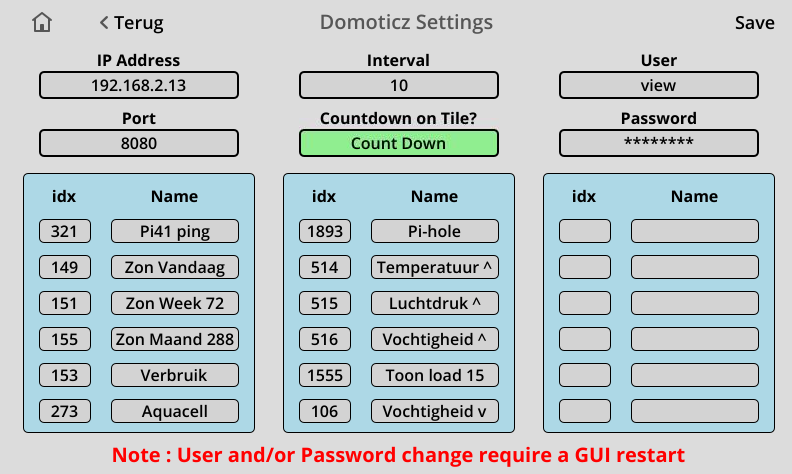
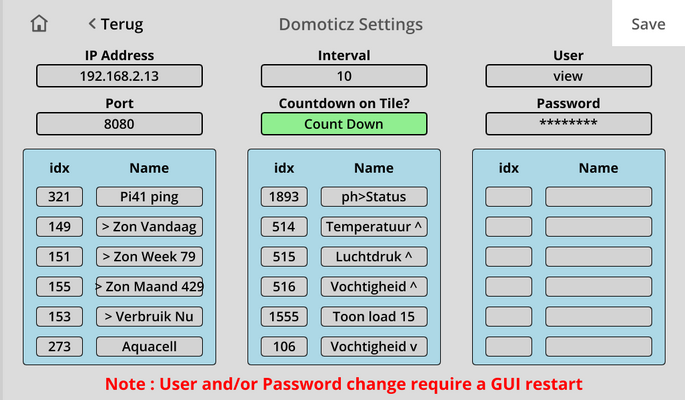
Field colors on Limits Screen and update device name on idx change

diff --git a/DomoticzMSCConnections.qml b/DomoticzMSCConnections.qml
@@ -169,147 +169,186 @@ Screen {
 
 // ----------------------------------------------------- Save idx values
 
+
 	function saveIdx1(text) {
 		if (text) {
-			idx1Label.buttonText = text.trim();
-			app.deviceIdx[0] = text.trim();
-            if (idx1Label.buttonText == "" ) { saveDevice1(" ") }
+            if (text.trim() != idx1Label.buttonText ) {
+                idx1Label.buttonText = text.trim();
+                app.deviceIdx[0] = text.trim();
+                if (text.trim() == "" ) { saveDevice1(" ") }
+                else { saveDevice1("..wait......") }
+            }
 		}
 	}
 
 	function saveIdx2(text) {
 		if (text) {
-			idx2Label.buttonText = text.trim();
-			app.deviceIdx[1] = text.trim();
-            if (idx2Label.buttonText == "" ) { saveDevice2(" ") }
+            if (text.trim() != idx2Label.buttonText ) {
+                idx2Label.buttonText = text.trim();
+                app.deviceIdx[1] = text.trim();
+                if (text.trim() == "" ) { saveDevice2(" ") }
+                else { saveDevice2("..wait......") }
+            }
 		}
 	}
-
 	function saveIdx3(text) {
 		if (text) {
-			idx3Label.buttonText = text.trim();
-			app.deviceIdx[2] = text.trim();
-            if (idx3Label.buttonText == "" ) { saveDevice3(" ") }
+            if (text.trim() != idx3Label.buttonText ) {
+                idx3Label.buttonText = text.trim();
+                app.deviceIdx[2] = text.trim();
+                if (text.trim() == "" ) { saveDevice3(" ") }
+                else { saveDevice3("..wait......") }
+            }
 		}
 	}
-
 	function saveIdx4(text) {
 		if (text) {
-			idx4Label.buttonText = text.trim();
-			app.deviceIdx[3] = text.trim();
-            if (idx4Label.buttonText == "" ) { saveDevice4(" ") }
+            if (text.trim() != idx4Label.buttonText ) {
+                idx4Label.buttonText = text.trim();
+                app.deviceIdx[3] = text.trim();
+                if (text.trim() == "" ) { saveDevice4(" ") }
+                else { saveDevice4("..wait......") }
+            }
 		}
 	}
-
 	function saveIdx5(text) {
 		if (text) {
-			idx5Label.buttonText = text.trim();
-			app.deviceIdx[4] = text.trim();
-            if (idx5Label.buttonText == "" ) { saveDevice5(" ") }
+            if (text.trim() != idx5Label.buttonText ) {
+                idx5Label.buttonText = text.trim();
+                app.deviceIdx[4] = text.trim();
+                if (text.trim() == "" ) { saveDevice5(" ") }
+                else { saveDevice5("..wait......") }
+            }
 		}
 	}
-
 	function saveIdx6(text) {
 		if (text) {
-			idx6Label.buttonText = text.trim();
-			app.deviceIdx[5] = text.trim();
-            if (idx6Label.buttonText == "" ) { saveDevice6(" ") }
+            if (text.trim() != idx6Label.buttonText ) {
+                idx6Label.buttonText = text.trim();
+                app.deviceIdx[5] = text.trim();
+                if (text.trim() == "" ) { saveDevice6(" ") }
+                else { saveDevice6("..wait......") }
+            }
 		}
 	}
-
 	function saveIdx7(text) {
 		if (text) {
-			idx7Label.buttonText = text.trim();
-			app.deviceIdx[6] = text.trim();
-            if (idx7Label.buttonText == "" ) { saveDevice7(" ") }
+            if (text.trim() != idx7Label.buttonText ) {
+                idx7Label.buttonText = text.trim();
+                app.deviceIdx[6] = text.trim();
+                if (text.trim() == "" ) { saveDevice7(" ") }
+                else { saveDevice7("..wait......") }
+            }
 		}
 	}
-
 	function saveIdx8(text) {
 		if (text) {
-			idx8Label.buttonText = text.trim();
-			app.deviceIdx[7] = text.trim();
-            if (idx8Label.buttonText == "" ) { saveDevice8(" ") }
+            if (text.trim() != idx8Label.buttonText ) {
+                idx8Label.buttonText = text.trim();
+                app.deviceIdx[7] = text.trim();
+                if (text.trim() == "" ) { saveDevice8(" ") }
+                else { saveDevice8("..wait......") }
+            }
 		}
 	}
-
 	function saveIdx9(text) {
 		if (text) {
-			idx9Label.buttonText = text.trim();
-			app.deviceIdx[8] = text.trim();
-            if (idx9Label.buttonText == "" ) { saveDevice9(" ") }
+            if (text.trim() != idx9Label.buttonText ) {
+                idx9Label.buttonText = text.trim();
+                app.deviceIdx[8] = text.trim();
+                if (text.trim() == "" ) { saveDevice9(" ") }
+                else { saveDevice9("..wait......") }
+            }
 		}
 	}
-
 	function saveIdx10(text) {
 		if (text) {
-			idx10Label.buttonText = text.trim();
-			app.deviceIdx[9] = text.trim();
-            if (idx10Label.buttonText == "" ) { saveDevice10(" ") }
+            if (text.trim() != idx10Label.buttonText ) {
+                idx10Label.buttonText = text.trim();
+                app.deviceIdx[9] = text.trim();
+                if (text.trim() == "" ) { saveDevice10(" ") }
+                else { saveDevice10("..wait......") }
+            }
 		}
 	}
-
 	function saveIdx11(text) {
 		if (text) {
-			idx11Label.buttonText = text.trim();
-			app.deviceIdx[10] = text.trim();
-            if (idx11Label.buttonText == "" ) { saveDevice11(" ") }
+            if (text.trim() != idx11Label.buttonText ) {
+                idx11Label.buttonText = text.trim();
+                app.deviceIdx[10] = text.trim();
+                if (text.trim() == "" ) { saveDevice11(" ") }
+                else { saveDevice11("..wait......") }
+            }
 		}
 	}
-
 	function saveIdx12(text) {
 		if (text) {
-			idx12Label.buttonText = text.trim();
-			app.deviceIdx[11] = text.trim();
-            if (idx12Label.buttonText == "" ) { saveDevice12(" ") }
+            if (text.trim() != idx12Label.buttonText ) {
+                idx12Label.buttonText = text.trim();
+                app.deviceIdx[11] = text.trim();
+                if (text.trim() == "" ) { saveDevice12(" ") }
+                else { saveDevice12("..wait......") }
+            }
 		}
 	}
-
 	function saveIdx13(text) {
 		if (text) {
-			idx13Label.buttonText = text.trim();
-			app.deviceIdx[12] = text.trim();
-            if (idx13Label.buttonText == "" ) { saveDevice13(" ") }
+            if (text.trim() != idx13Label.buttonText ) {
+                idx13Label.buttonText = text.trim();
+                app.deviceIdx[12] = text.trim();
+                if (text.trim() == "" ) { saveDevice13(" ") }
+                else { saveDevice13("..wait......") }
+            }
 		}
 	}
-
 	function saveIdx14(text) {
 		if (text) {
-			idx14Label.buttonText = text.trim();
-			app.deviceIdx[13] = text.trim();
-            if (idx14Label.buttonText == "" ) { saveDevice14(" ") }
+            if (text.trim() != idx14Label.buttonText ) {
+                idx14Label.buttonText = text.trim();
+                app.deviceIdx[13] = text.trim();
+                if (text.trim() == "" ) { saveDevice14(" ") }
+                else { saveDevice14("..wait......") }
+            }
 		}
 	}
-
 	function saveIdx15(text) {
 		if (text) {
-			idx15Label.buttonText = text.trim();
-			app.deviceIdx[14] = text.trim();
-            if (idx15Label.buttonText == "" ) { saveDevice15(" ") }
+            if (text.trim() != idx15Label.buttonText ) {
+                idx15Label.buttonText = text.trim();
+                app.deviceIdx[14] = text.trim();
+                if (text.trim() == "" ) { saveDevice15(" ") }
+                else { saveDevice15("..wait......") }
+            }
 		}
 	}
-
 	function saveIdx16(text) {
 		if (text) {
-			idx16Label.buttonText = text.trim();
-			app.deviceIdx[15] = text.trim();
-            if (idx16Label.buttonText == "" ) { saveDevice16(" ") }
+            if (text.trim() != idx16Label.buttonText ) {
+                idx16Label.buttonText = text.trim();
+                app.deviceIdx[15] = text.trim();
+                if (text.trim() == "" ) { saveDevice16(" ") }
+                else { saveDevice16("..wait......") }
+            }
 		}
 	}
-
 	function saveIdx17(text) {
 		if (text) {
-			idx17Label.buttonText = text.trim();
-			app.deviceIdx[16] = text.trim();
-            if (idx17Label.buttonText == "" ) { saveDevice17(" ") }
+            if (text.trim() != idx17Label.buttonText ) {
+                idx17Label.buttonText = text.trim();
+                app.deviceIdx[16] = text.trim();
+                if (text.trim() == "" ) { saveDevice17(" ") }
+                else { saveDevice17("..wait......") }
+            }
 		}
 	}
-
 	function saveIdx18(text) {
 		if (text) {
-			idx18Label.buttonText = text.trim();
-			app.deviceIdx[17] = text.trim();
-            if (idx18Label.buttonText == "" ) { saveDevice18(" ") }
+            if (text.trim() != idx18Label.buttonText ) {
+                idx18Label.buttonText = text.trim();
+                app.deviceIdx[17] = text.trim();
+                if (text.trim() == "" ) { saveDevice18(" ") }
+                else { saveDevice18("..wait......") }
+            }
 		}
 	}
 

diff --git a/DomoticzMCSApp.qml b/DomoticzMCSApp.qml
@@ -252,7 +252,7 @@ App {
                             
                                 if ( dataJSON['result'][ii]['idx'] == deviceIdx[i] ) {
                                     deviceValue[i] = dataJSON['result'][ii]['Data']
-                                    if (deviceName[i] == '') { deviceName[i] = dataJSON['result'][ii]['Name'] }
+                                    if (deviceName[i] == '' || deviceName[i] == '..wait......') { deviceName[i] = dataJSON['result'][ii]['Name'] }
                                     if (deviceLolim[i] != '') { newalarmlow  = newalarmlow  || parseFloat(deviceValue[i]) <= parseFloat(deviceLolim[i]) }
                                     if (deviceHilim[i] != '') { newalarmhigh = newalarmhigh || parseFloat(deviceValue[i]) >= parseFloat(deviceHilim[i]) }                            
                                     if (deviceLolim[i] != '') { deviceLoAlarm[i] = ( parseFloat(deviceValue[i]) <= parseFloat(deviceLolim[i]) ) }

diff --git a/README.md b/README.md
@@ -1,22 +1,29 @@
-This app is to monitor Domoticz General Custom Sensors and : 
+This Toon app is to monitor Domoticz Devices of the type General Custom Sensor. 
 
- - has a main purpose :
-     ... warn when values in Domoticz are not within optional configurable limits by changing tile color
+A Toon app is an app which can be installed on a rooted Eneco Toon 1 or Toon 2.
+Rooting a Toon is perfectly legal by the way.
 
- - is used by me to display the next 11 values from Domoticz :
-     ... pi-hole status
-     ... salt level of my Aquacell water softener
-     ... a device accessible by pinging it
-     ... solar panels generated today
-     ... solar panels generated week
-     ... solar panels generated month
-     ... airpressure
-     ... humidity in another place in the house
-     ... temperature in another place in the house
-     ... active power usage
-     ... the 15 minute load of Toon ( indeed, measured and logged by Domoticz )
+ - purpose :
+    ... page between 3 sets of 6 devices with their values on the tile
+    ... warn when values in Domoticz are not within optional configurable limits by changing tile color
 
- - has 3 screens :
+ - is used by me to display Domoticz devices like :
+    ... solar panels generated today
+    ... solar panels generated week
+    ... solar panels generated month
+    ... airpressure
+    ... humidity in the house
+    ... temperature in another place in the house
+    ... active power usage
+ - the same for the next devices but with optional limits defined :
+    ... pi-hole status ( low when status is 0 )
+    ... salt level of my Aquacell water softener ( low alarm when 1 )
+    ... the 15 minute load of Toon ( high alarm above 1.25 )
+    ... a device accessible by pinging it ( low alarm when below 4 pings )
+
+Since my values fit in 2 sets of 6, the Tile only pages between these 2 sets. Empty sets are skipped.
+
+ - To show and configure everything this app has 3 screens :
     ... 1 Tile showing 1 set of 6 Custom Sensors at a time ( max 3 sets which it automatically pages between ) 
          the tile gives access to the Limits Settings screen
          ( when a value crosses a limit the tile gets a color, more details on this below )
@@ -24,37 +31,33 @@ This app is to monitor Domoticz General Custom Sensors and :
          the Limits screen gives access to the Settings screen
     ... 1 Settings screen to configure the Domoticz connection and up to 3 sets of 6 Custom Sensors idx values and names.
 
-    Since I fitted my 11 values in 2 sets, the Tile only pages between these 2 sets. Empty sets are skipped.
+When the app arrives in the store installing will be like for any other app.
 
-To install ( manually without Toon store, when it arrives in the store installing will be like for any other app ) :
+For now to install manually without Toon store : 
 
- - Open an sftp tool like Mozilla on Windows or thunar on Linux to browse to your Toon.
- - On your Toon go to /qmf/qml/apps and create a folder domoticzMCS.
- - In that folder you put at least the qml files.
- - Restart the GUI. ( On your Toon go to > Settings > TSC > Restart GUI )
- - Add the Monitor CS app like any other app to the screen.
+ - ssh to your Toon.
+ - On your Toon go to /qmf/qml/apps and issue the next command :
+   git clone https://github.com/JackV2020/Toon-Domoticz-MonitorCS.git domoticzMCS
+ - Restart the GUI or reboot your Toon.
+ - Add the 'Monitor CS' app like any other app to the screen.
     ( Click on a big + and add a tile for Monitor CS )
 
 To configure :
 
- - There will be an empty tile with a running counter.
+ - After first startup there will be an empty tile with a running counter.
  - Click on it to see the Limits Screen, click on the big button on the bottom to start the Settings Screen.
  - First enter your settings for user and password if you need these to access your Domoticz.
    ( When you need no user you can clear the fields or just leave the defaults in place )
  - After that enter the IP address and http port. ( default is 8080 )
  - ( When you want to change user and password after IP and port are ok you need to restart the GUI to re-login )
- - Now enter an idx of a Custom Sensor and the name of the Custom Sensor is retrieved for you.
+ - Now enter an idx of a Custom Sensor and the name of the Custom Sensor will be retrieved for you. Just wait...
  - You can change the name or just leave it for now. It may be too long for the tile and you may change it later.
  - To clear an idx you edit the field and put a space in it and save it. The name field will be cleared for you.
+ - When you change an idx the new name will be retrieved for you. Just wait....
  - When you clear the name field by putting a space in it, the name will be retrieved from Domoticz again.
  - To save settings you need to click the Save button in the upper right corner.
  - To test settings just click the home button in the upper left corner. Changes are not save then.
  - You can put limits on the Limits Screen and use the home and Save buttons the same way.
- 
-Limits and tile colors :
- - Blue     : When at least one of the fields goes below a limit the tile will turn blue.
- - Red      : At least one value too high will result in the tile turning red.
- - Purple   : When one is too low and another too high the tile will go purple.
 
 The limits are including the value you give.
 A low of 12.34 means less or equal to 12.34
@@ -64,12 +67,25 @@ You can put text after a limit.
 Examples for trailing text : 
     - units like                         : 10.12 kg
     - date of entering the limit like    : 1234 03-28
+ 
+Tile colors :
+ - Neutral  : No alarms
+ - Blue     : When at least one of the fields goes below a limit the tile will turn blue.
+ - Red      : At least one value too high will result in the tile turning red.
+ - Purple   : When one is too low and another too high the tile will go purple.
+
+Limits Screen field colors :
+ - Neutral  : field empty
+ - Yellow   : limit value present
+ - Blue     : low limit value in alarm
+ - Red      : high limit in alarm
+ 
+In the screenshots folder you can see that I, for demo purpose, entered wrong values for some limits resulting in some colored limits on the Limits Screen and a purple Tile.
 
 Notes.
  - Repeat the same idx on the same place in the 3 sets to have the Custom Sensor always vissible while the Tile pages.
  - There is no check on the Limits fields to validate if the low < high and high > low or values are numeric.
      Validation could be put on but we would miss some fun......
-     Just for the fun, put a high in the low and a low in the high and the tile will have color.
-
+     Just to test, put a high in the low and a low in the high and the tile will have color.
 
 Thanks for reading and enjoy.
